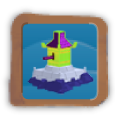
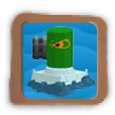
Nouvelles tours

diff --git a/src/Preloader.js b/src/Preloader.js
@@ -43,16 +43,16 @@ ISC.Preloader.prototype = {
 
         this.load.image('tower_obstacle', 'images/tower_obstacle.png', 64, 64, 8);
         this.load.spritesheet('tower_a0', 'images/tower_short.png', 64, 64, 8);
-        this.load.spritesheet('tower_a1', 'images/tower_short2.png', 64, 64, 8);
+        this.load.spritesheet('tower_a1', 'images/tower_heavy.png', 64, 64, 8);
         this.load.spritesheet('tower_b0', 'images/tower_long.png', 64, 64, 8);
-        this.load.spritesheet('tower_b1', 'images/tower_long2.png', 64, 64, 8);
+        this.load.spritesheet('tower_b1', 'images/tower_heavy2.png', 64, 64, 8);
         this.load.spritesheet('tower_b2', 'images/tower_long2.png', 64, 64, 8);
         this.load.spritesheet('tower_tentacle', 'images/tentacle.png', 64, 64, 8);
 
         this.load.spritesheet('fx_a0', 'images/tower_fx_short.png', 64, 64, 8);
-        this.load.spritesheet('fx_a1', 'images/tower_fx_short.png', 64, 64, 8);
+        this.load.spritesheet('fx_a1', 'images/tower_fx_heavy.png', 64, 64, 8);
         this.load.spritesheet('fx_b0', 'images/tower_fx_long.png', 64, 64, 8);
-        this.load.spritesheet('fx_b1', 'images/tower_fx_long.png', 64, 64, 8);
+        this.load.spritesheet('fx_b1', 'images/tower_fx_heavy2.png', 64, 64, 8);
 
         // Chargement son ambiance.
         this.load.audio('Plage','sounds/sample/sf_plage_02.mp3');
